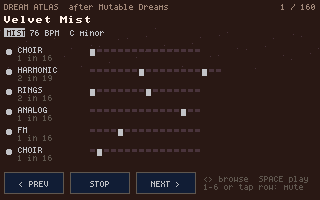
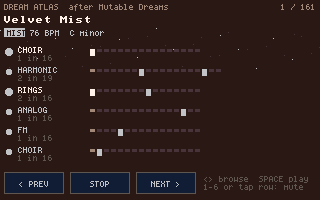
dreamatlas: Slow Brew, Playtime's brew broken into cycles on its own instruments
Four more voice models copied from Playtime's synth.lua patches: UPRIGHT
(hUpright), ORGAN (brewOrgan + slow Leslie), GUITAR (brewGuitar), BELL
(brewBell, an agogo pair); the kick is bapKick on the drumhead. F minor,
98 BPM, i-III-VI a bar each (JamCfg carries its own chord cycle now), not
the riff: upright 13 in 24 eighths, rootless organ 3-5-7-9 every three beats,
guitar on a 10-eighth cycle, agogo 5 in 12. JamCfg.names relabels tracks.
Factory biomes and Marmalade Jam render byte-identical.

diff --git a/tools/carts/dreamatlas.c b/tools/carts/dreamatlas.c
@@ -9,7 +9,7 @@
   "lineage": "A port of the BIOME atlas from Mutable Dreams 1.4 (Kid Bunka / Christoph Link, free firmware for the M-VAVE FM-1, itself built on Mutable Instruments' Plaits/Rings/Elements). The 157 scenes are the upstream's own factory data (MIT), generated into runtime/dreamatlas/biomes.h; the sequencer (Euclid hits/length/rotate per track, seeded rolls, chord journeys, scale masks, the Lo-Fi kit) is ported line by line from app/dsp/dreams.cpp. The fifteen VOICES are NOT ported: each is mapped onto the nearest engine dreamengine already ships, which is the experiment.",
   "homage": "Mutable Dreams (Kid Bunka) / Mutable Instruments",
   "description": {
-    "summary": "157 small generative worlds from Mutable Dreams, plus a few of our own (a house jam, a tabla-and-guiro bazaar, Moon Meadow with tablas): six drifting Euclidean tracks, chord journeys and a Lo-Fi kit, played on dreamengine's own voices.",
+    "summary": "157 small generative worlds from Mutable Dreams, plus a few of our own (a house jam, a tabla-and-guiro bazaar, Moon Meadow with tablas, a slow organ-and-upright brew): six drifting Euclidean tracks, chord journeys and a Lo-Fi kit, played on dreamengine's own voices.",
     "detail": "Each BIOME is one scene: six tracks, each a voice (Plaits-style drums, FM, analog, Rings and Elements resonators, a sine choir, a round bass...) with its OWN rhythm, k hits spread over n steps. The lengths differ (16, 19, 13...), so the tracks slide against each other and the loop takes minutes to come round. Some biomes walk a chord progression under it, some swap three tracks for a crunchy 16 kHz Lo-Fi drum kit. Browse in the curated order: neighbours are meant to feel genuinely different. The scenes are the original's factory data; the sounds are this engine's nearest voices, so it is a translation, not a copy.",
     "controls": "LEFT/RIGHT or the arrows: next / previous biome · SPACE or PLAY: start / stop · 1-6: mute a track · tap a track row to mute it"
   },
@@ -42,9 +42,11 @@ de:meta */
 // ── upstream constants ───────────────────────────────────────────────────────
 enum { M_KICK, M_SNARE, M_HAT, M_FM, M_VA, M_RINGS, M_HARMONIC, M_CHOIR, M_BASS, M_ELEMENTS,
        M_MELLOW, M_SATIN, M_VELVET, M_SPECTRAL, M_BREATH,
-       M_TABLA, M_SCRAPE, M_MODELS };   // the last two are OURS (no upstream model): only our own biomes use them
+       M_TABLA, M_SCRAPE, M_UPRIGHT, M_ORGAN, M_GUITAR, M_BELL,
+       M_MODELS };   // from M_TABLA on they are OURS (no upstream model): only our own biomes use them
 static const char *const MODEL_NAME[M_MODELS] = { "KICK", "SNARE", "HAT", "FM", "ANALOG", "RINGS", "HARMONIC",
-    "CHOIR", "BASS", "ELEMENTS", "MELLOW", "SATIN", "VELVET KEYS", "SPECTRAL", "BREATH", "TABLA", "SCRAPE" };
+    "CHOIR", "BASS", "ELEMENTS", "MELLOW", "SATIN", "VELVET KEYS", "SPECTRAL", "BREATH", "TABLA", "SCRAPE",
+    "UPRIGHT", "ORGAN", "GUITAR", "BELL" };
 static const char *const KIT_NAME[5] = { "DUST", "CRATE", "SOFT", "FOUND OBJECTS", "VELOUR TAPE" };
 static const char *const SCALE_NAME[13] = { "chromatic", "minor", "major", "dorian", "minor pent", "major pent",
     "whole tone", "phrygian", "ukr dorian", "harm minor", "dbl harm min", "harm major", "dbl harm maj" };
@@ -117,7 +119,17 @@ static Scene S;
 // the ambient sends and tides), and its other three tracks swapped for a low tabla, a high tabla
 // and a soft fading scrape. It jams gently: the mist first, the percussion one phrase at a time,
 // and its breakdown takes only the percussion away.
-#define DA_OWN 3
+// SLOW BREW is Playtime's brew style (its src/music-brew.lua, after Ronnie Foster) broken into
+// cycles, on brew's own instruments copied from Playtime's synth.lua patches: the bapKick drumhead,
+// the snare, the agogo-like bell pair (high and low in turn), hUpright (the finger-plucked upright),
+// brewOrgan (thin tonewheel registration through a slow Leslie) and brewGuitar. Brew's key (F minor),
+// tempo and its one-chord-a-bar i-III-VI; NOT its riff: the bass is 13 hits over 24 eighths (a
+// 3-bar cycle, as brew's riff is) wandering in the scale. The organ voices each chord ROOTLESS (3rd,
+// 5th, 7th, 9th: Fm9, Abmaj9, Dbmaj9, brew's colours) every three beats; the guitar strums small
+// shapes on a 10-eighth (5/4) cycle; the agogo plays 5 in 12. The bar, the bells' three-against-
+// four, the organ's dotted halves and the guitar's fives meet again only every few bars; the bass
+// and the chords every 3. The bells keep time where brew has a hat (six tracks).
+#define DA_OWN 4
 #define DA_ALL (DA_BIOMES + DA_OWN)
 static const DaBiome DA_OWN_BIOME[DA_OWN] = {
  {"Marmalade Jam",8,125,7,2,125125,0,0,650,200,100,0,120,0,0,0,380,300,{500,260,520,60},{
@@ -141,14 +153,29 @@ static const DaBiome DA_OWN_BIOME[DA_OWN] = {
   /* bayan   */ {15,250,150,650,1000,250,3,16,0,850,36,420,0,1,0,1,200,650,850,100,0,0},
   /* dayan   */ {15,500,80,500,900,300,7,16,2,650,60,620,0,1,0,1,300,150,850,100,0,0},
   /* scrape  */ {16,600,200,500,700,400,3,16,4,700,60,720,0,1,0,1,150,550,850,100,0,0}}},
+ {"Slow Brew",9,98,5,1,98989,0,0,650,200,100,0,150,0,0,-1,0,300,{500,350,500,60},{
+  /* kick    (bapKick)   */ {15,50,100,485,1000,0,5,16,0,900,36,500,0,1,0,1,200,0,850,100,0,0},
+  /* snare               */ {1,450,750,300,350,120,2,16,4,1000,50,470,0,1,0,1,150,150,850,100,0,0},
+  /* agogo   (brewBell)  */ {20,700,850,160,450,150,5,12,0,900,92,650,0,1,0,1,300,200,850,100,0,0},
+  /* upright (hUpright)  */ {17,300,300,350,800,0,13,24,0,900,41,480,0,2,0,1,250,450,850,100,0,0},
+  /* organ   (brewOrgan) */ {18,600,100,700,450,200,2,6,0,1000,53,400,0,4,0,1,100,250,850,100,0,0},
+  /* guitar  (brewGuitar)*/ {19,220,400,500,500,150,3,10,0,850,60,600,0,2,0,1,200,100,850,100,0,0}}},
 };
 // how each of our biomes JAMS (Playtime's drum jam): the order its layers enter, who may rest a
 // phrase, who a breakdown takes out, which track plays the phrase-end fill, which lets go before the one
-typedef struct { int chord_pattern, chord_tracks, build[6], rest[4], break_mask, fill, letgo; } JamCfg;
+// names[] relabels the tracks (a drumhead playing a kick reads KICK); prog[] is an own chord cycle
+// (scale degrees, prog_bars bars each) in place of a JOURNEY pattern, for a cycle of any length
+typedef struct { int chord_pattern, chord_tracks, build[6], rest[4], break_mask, fill, letgo;
+                 const char *names[6]; signed char prog[8]; int prog_len, prog_bars; } JamCfg;
 static const JamCfg DA_OWN_JAM[DA_OWN] = {
-    { 2, 0x38, {0, 1, 3, 2, 5, 4}, {1, 2, 4, 5}, 1 << 0 | 1 << 2 | 1 << 3, 2, 1 },   // Marmalade: I-vi-IV-V
-    { 1, 0x18, {0, 2, 3, 1, 4, 5}, {1, 2, 4, 5}, 1 << 0 | 1 << 3,          1, 2 },   // Bazaar: i-IV-i-v
-    { 0, 0,    {0, 2, 1, 3, 5, 4}, {1, 3, 4, 5}, 1 << 3 | 1 << 4 | 1 << 5, 4, 5 },   // Moon Garden: no chords, as Moon Meadow
+    { 2, 0x38, {0, 1, 3, 2, 5, 4}, {1, 2, 4, 5}, 1 << 0 | 1 << 2 | 1 << 3, 2, 1,     // Marmalade: I-vi-IV-V
+      { "KICK", "HAT", "CLAP", "BASS", "PLUCK", "KEYS" } },
+    { 1, 0x18, {0, 2, 3, 1, 4, 5}, {1, 2, 4, 5}, 1 << 0 | 1 << 3,          1, 2,     // Bazaar: i-IV-i-v
+      { "BAYAN", "DAYAN", "GUIRO", "BASS", "MARIMBA", "QUIJADA" } },
+    { 0, 0,    {0, 2, 1, 3, 5, 4}, {1, 3, 4, 5}, 1 << 3 | 1 << 4 | 1 << 5, 4, 5,     // Moon Garden: no chords, as Moon Meadow
+      { "CHOIR", "DRONE", "RINGS", "BAYAN", "DAYAN", "SCRAPE" } },
+    { 1, 0x38, {0, 1, 2, 3, 4, 5}, {2, 3, 4, 5}, 1 << 3 | 1 << 4 | 1 << 5, 1, 2,     // Slow Brew: i-III-VI, a bar each
+      { "KICK", "SNARE", "AGOGO", "UPRIGHT", "ORGAN", "GUITAR" }, { 0, 2, 5 }, 3, 1 },
 };
 static const DaBiome *biome_row(int id) { return id < DA_BIOMES ? &DA_BIOME[id] : &DA_OWN_BIOME[id - DA_BIOMES]; }
 static int browse_id(int k) { return k < DA_BIOMES ? DA_BROWSE[k] : k; }   // ours come last, in order
@@ -175,6 +202,10 @@ static int chord_offset(void) {
     static const int iv[13][7] = {{0,2,4,5,7,9,11},{0,2,3,5,7,8,10},{0,2,4,5,7,9,11},{0,2,3,5,7,9,10},{0,2,3,5,7,8,10},
         {0,2,4,5,7,9,11},{0,2,4,6,8,10,12},{0,1,3,5,7,8,10},{0,2,3,6,7,9,10},{0,2,3,5,7,8,11},{0,2,3,6,7,8,11},
         {0,2,4,5,7,8,11},{0,1,4,5,7,8,11}};
+    if (S.jam && DA_OWN_JAM[S.jam - 1].prog_len) {      // one of ours with its own chord cycle
+        const JamCfg *j = &DA_OWN_JAM[S.jam - 1];
+        return iv[bound(S.b.scale, 0, 12)][j->prog[(step / (16 * j->prog_bars)) % j->prog_len]];
+    }
     int p = S.chord_pattern;
     int d = JOURNEY[p][(step / (16 * S.chord_bars)) % (p > 4 ? 8 : 4)];
     return iv[bound(S.b.scale, 0, 12)][d];
@@ -366,7 +397,8 @@ static int env_decay_ms(int i) {  // upstream: exponential, time constant .06 + 
 static const float VOICE_TRIM_DB[M_MODELS] = {
     /* KICK SNARE HAT */ 3.4f, 5.0f, 3.9f,  /* FM VA RINGS */ 6.0f, 2.7f, -1.7f,
     /* HARMONIC CHOIR BASS */ 9.4f, -5.8f, 0,  /* ELEMENTS MELLOW SATIN */ 0, 0, 0,
-    /* VELVET SPECTRAL BREATH */ 3.3f, 0, 3.2f,  /* TABLA SCRAPE: ours, no upstream to fit */ 0, 0 };
+    /* VELVET SPECTRAL BREATH */ 3.3f, 0, 3.2f,  /* TABLA SCRAPE: ours, no upstream to fit */ 0, 0,
+    /* UPRIGHT ORGAN GUITAR BELL: ours */ 0, 0, 0, 0 };
 
 // ── KICK: Plaits' AnalogBassDrum, PORTED (Emilie Gillet, MIT), the trigger path only ─────────
 // Mapping it onto INSTR_SINE gave a sustained thump with no click, 20 dB too loud in the balance.
@@ -522,6 +554,17 @@ static void config_track(int i) {
         instrument_unison(sl, 1, 0); instrument_sync(sl, 0);
     }
     instrument_level(l, 0);
+    // our models set per-engine modes, mono, vibrato and a Leslie, which a factory model never
+    // touches: put a slot back at the defaults when it holds, or held, one of ours (factory renders
+    // stay byte-identical: a slot that only ever held factory models is never touched here)
+    static int held_ours[6], had_leslie[6];
+    if (m >= M_TABLA || held_ours[i]) {
+        static const float mode_default[7] = { 0, 0, .5f, .5f, .5f, .5f, 0 };   // as Playtime's MODE_DEFAULTS
+        for (int k = 0; k < 7; k++) instrument_mode(s, k, mode_default[k]);
+        instrument_mono(s, 0); instrument_vibrato(s, 1);
+        if (had_leslie[i] && m != M_ORGAN) { instrument_leslie(s, 1, 0, .5f, 0, 0); had_leslie[i] = 0; }
+    }
+    held_ours[i] = m >= M_TABLA;
     switch (m) {
     case M_KICK:      // Plaits analog bass drum, ported above and rendered to sample slot 8+i
         kick_render(i, t->note, tone * (.65f + .35f * tone), dec, harm * .75f);
@@ -589,6 +632,26 @@ static void config_track(int i) {
     case M_SCRAPE:    // INSTR_SCRAPE: harm = BODY (gourd guiro → bone quijada → metal cabasa), tone =
                       // TOOTH RATE, shape = GESTURE (steady scrape → bouncing rattle), decay = stroke length
         instrument(s, INSTR_SCRAPE, 0, 0, 7, 30);
+        instrument_harmonics(s, harm); instrument_timbre(s, tone); instrument_morph(s, shape); break;
+    // ── brew's instruments, copied from Playtime's synth.lua patches (the row's knobs ARE the patch) ──
+    case M_UPRIGHT:   // hUpright: the bowed engine plucked by a FINGER on the double-bass body, dark, mono
+        instrument(s, INSTR_BOWED, 4, 0, 7, 475);
+        instrument_harmonics(s, harm); instrument_timbre(s, shape * .67f); instrument_morph(s, shape);
+        instrument_mode(s, 0, 1); instrument_mode(s, 1, .85f); instrument_mode(s, 2, 1); instrument_mode(s, MODE_BOW_PLUCK, 1);
+        instrument_mono(s, 1); instrument_vibrato(s, 0);
+        instrument_filter(s, FILTER_LOW, 200 + (int)(tone * 500), 3); break;          // tone .3 = brew's 350 Hz
+    case M_ORGAN:     // brewOrgan: the thin tonewheel registration, scanner chorus, 1.2 kHz, a slow Leslie
+        instrument(s, INSTR_ORGAN, 12, 0, 7, 220);
+        instrument_harmonics(s, harm); instrument_timbre(s, tone); instrument_morph(s, shape);
+        instrument_filter(s, FILTER_LOW, 1200, 0);
+        instrument_leslie(s, 1, .1f, .5f, .2f, .5f); had_leslie[i] = 1; break;
+    case M_GUITAR:    // brewGuitar: the guitar engine, small open shapes, 1.9 kHz
+        instrument(s, INSTR_GUITAR, 2, 0, 7, 900);
+        instrument_harmonics(s, harm); instrument_timbre(s, tone); instrument_morph(s, shape);
+        instrument_mode(s, 0, .7f); instrument_mode(s, 1, .12f);
+        instrument_filter(s, FILTER_LOW, 1900, 0); break;
+    case M_BELL:      // brewBell: a mallet in bell material, ~150 ms rings, inharmonic overtones
+        instrument(s, INSTR_MALLET, 0, 160, 0, 80);
         instrument_harmonics(s, harm); instrument_timbre(s, tone); instrument_morph(s, shape); break;
     default:          // BREATH: a pitched sine reed crossfaded (harm) with lowpassed air
         instrument(s, INSTR_SINE, A, D, 0, 120); instrument_level(s, 1 - harm);
@@ -695,6 +758,10 @@ static void fire(int i, int note, float vel, double t, int gate_ms) {
     float du = unit(tr->decay);
     if (m == M_TABLA)  dur = (int)(55 * powf(1800.0f / 55, du));   // the tabla cart's RING: the hit IS the gate
     if (m == M_SCRAPE) dur = (int)(40 * powf(20, du));             // 40 ms tick .. 800 ms long scrape
+    if (m == M_UPRIGHT) dur = (int)(80 * powf(15, du));            // a stopped 8th .. a ringing note
+    if (m == M_ORGAN)  dur = (int)(200 * powf(12, du));            // chords held toward the next
+    if (m == M_GUITAR) dur = (int)(150 * powf(12, du));
+    if (m == M_BELL)   dur = 200;
     // Breathe: a 7..20 s sine per track that drifts the cutoff; sampled at the note (their drift
     // is continuous, ours lands per note). Tides on ambient tracks add a second, slower sway.
     float ph = (float)fmod(t / (7.0 + i * 2.3) + i * .137, 1.0);
@@ -708,6 +775,19 @@ static void fire(int i, int note, float vel, double t, int gate_ms) {
     if (m == M_KICK) o.gain = (3 + 7 * vel) / 10;   // Plaits: accent sets the pulse height 3+7a
     if (m == M_SNARE) o.gain = snare_gain;          // rendered at accent .8; upstream drums ignore velocity in the mix
     o.cutoff_oct = (breathe * .13f + tide * .2f) * 7.0f;
+    if (m == M_ORGAN || m == M_GUITAR) {   // brew's chords: the organ ROOTLESS (3 5 7 9), the guitar a small shape
+        static const int organ_deg[4] = { 2, 4, 6, 8 }, guitar_deg[3] = { 2, 4, 7 };
+        const int *dg = m == M_ORGAN ? organ_deg : guitar_deg; int nd = m == M_ORGAN ? 4 : 3;
+        for (int k = 0; k < nd; k++) {
+            int n = note; for (int st = 0; st < dg[k]; st++) { n++; while (quantize(n, S.b.root, S.b.scale) != n) n++; }
+            NoteOpts c = o; c.gain = o.gain * (m == M_ORGAN ? .7f : .75f);
+            // the organ's keys together a hair behind, the guitar a quick down-strum (Playtime's feel)
+            double at = t + (m == M_ORGAN ? .008 : .018 + k * .012);
+            track_booking(schedule_note_at(at, n, s, 7, dur, &c), end + .1);
+        }
+        mark_hit(i, t); return;
+    }
+    if (m == M_BELL) { static int flip[6]; if (flip[i]++ & 1) note = quantize(note - 5, S.b.root, S.b.scale); }   // the pair: high, low
     if (m == M_CHOIR) {
         static const int chord[4][3] = { {0,3,7}, {0,4,7}, {0,5,7}, {0,7,12} };
         int ci = bound(tr->harm * 4 / 1001, 0, 3);
@@ -793,7 +873,8 @@ static void tick(double t) {
             && !S.jam_out[i] && !(fill && i == letgo_tr && bar_step >= 14)) {
             int note = tr->note;
             if (tr->model >= M_FM) {
-                if ((roll >> 10) % 1000 < (unsigned)S.b.macro[1]) note += degree[(roll >> 20) % 7];
+                int still = tr->model == M_ORGAN || tr->model == M_GUITAR || tr->model == M_BELL;   // chords and bells keep their pitch
+                if (!still && (roll >> 10) % 1000 < (unsigned)S.b.macro[1]) note += degree[(roll >> 20) % 7];
                 if (S.chord_tracks & (1u << i)) note += chord_offset();
                 note = quantize(note + S.b.transpose, S.b.root, S.b.scale);
             }
@@ -889,7 +970,8 @@ void draw(void) {
         float g = off ? 0 : hit_glow(i);
         int nc = off ? CLR_DARK_GREY : g > .3f ? CLR_WHITE : CLR_LIGHT_GREY;
         circfill(9, y + 6, 3 + (int)(g * 2), off ? CLR_DARKER_GREY : fc);
-        print(gone ? "(kit)" : is_kit ? "LO-FI KIT" : MODEL_NAME[tr->model], 18, y + 1, nc);
+        const char *label = S.jam && DA_OWN_JAM[S.jam - 1].names[i] ? DA_OWN_JAM[S.jam - 1].names[i] : MODEL_NAME[tr->model];
+        print(gone ? "(kit)" : is_kit ? "LO-FI KIT" : label, 18, y + 1, nc);
         if (is_kit) print(KIT_NAME[S.kit_bank], 18, y + 9, CLR_DARK_GREY);
         else if (!gone) print(S.seq_on[i] ? "phrase" : str("%d in %d", bound(tr->hits + (S.b.macro[0] - 500) * tr->length / 1500, 0, tr->length), tr->length),
                               18, y + 9, CLR_DARK_GREY);

diff --git a/docs/design/mutable-dreams.md b/docs/design/mutable-dreams.md
@@ -146,6 +146,18 @@ high tabla and a soft fading scrape. Its jam starts on the mist, adds the percus
 time, and its breakdown takes only the percussion away. The bed is ~4.5 dB under Moon Meadow's own
 levels so the percussion peaks sit just beneath it.
 
+The fourth, **Slow Brew**, is Playtime's brew style (`playtime/src/music-brew.lua`, after Ronnie
+Foster) broken into cycles on brew's OWN instruments, four more models copied from Playtime's
+`synth.lua` patches: **UPRIGHT** (`hUpright`: the bowed engine finger-plucked, dark, mono), **ORGAN**
+(`brewOrgan`: thin tonewheel registration, 1.2 kHz, a slow Leslie), **GUITAR** (`brewGuitar`) and
+**BELL** (`brewBell`, played as a high/low agogo pair); the kick is `bapKick` on the drumhead model.
+Brew's key, tempo and one-chord-a-bar i-III-VI (a `JamCfg` can now carry its own chord cycle, here 3
+bars long) but deliberately NOT its riff: the upright is 13 hits over 24 eighths, a 3-bar cycle like
+the riff's, wandering in the scale. The organ voices each chord ROOTLESS (3-5-7-9: Fm9, Abmaj9,
+Dbmaj9, checked from the trace) every three beats, the guitar strums on a 10-eighth cycle, the agogo
+plays 5 in 12. Its jam builds like brew's intro (drums, bells, then the band) and its breakdown is
+brew's break: drums and bells alone. `JamCfg.names[]` relabels the tracks (the drumhead reads KICK).
+
 LEVELS in our biomes come from measured solo stems (`DE_DEFINES=DA_ID=<id>,DA_SOLO=<n>`), not the
 factory fit: upstream's balance puts the quiet Plaits kick ~20 dB under a loud round bass, which a
 four-on-the-floor cannot take. Kick and bass now sit within a few dB of each other.
